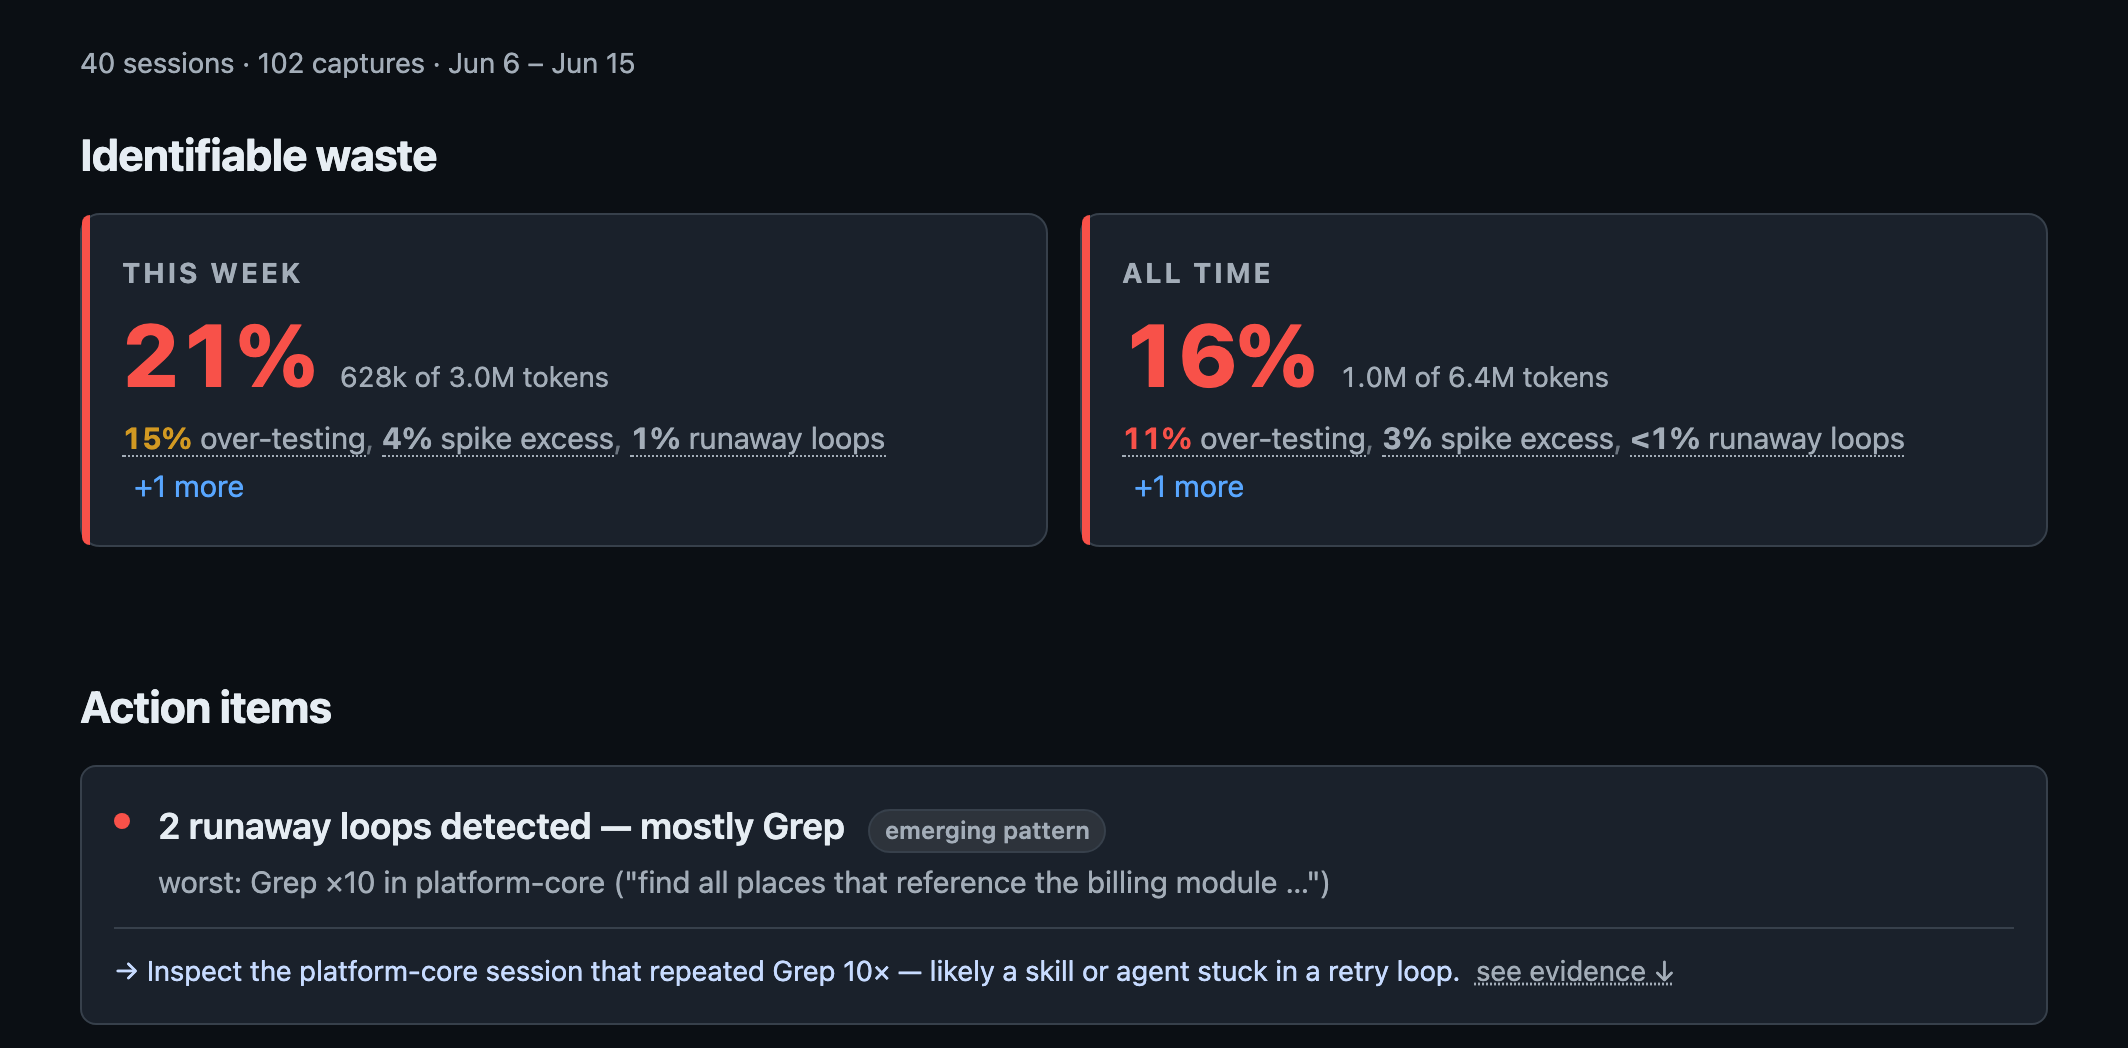
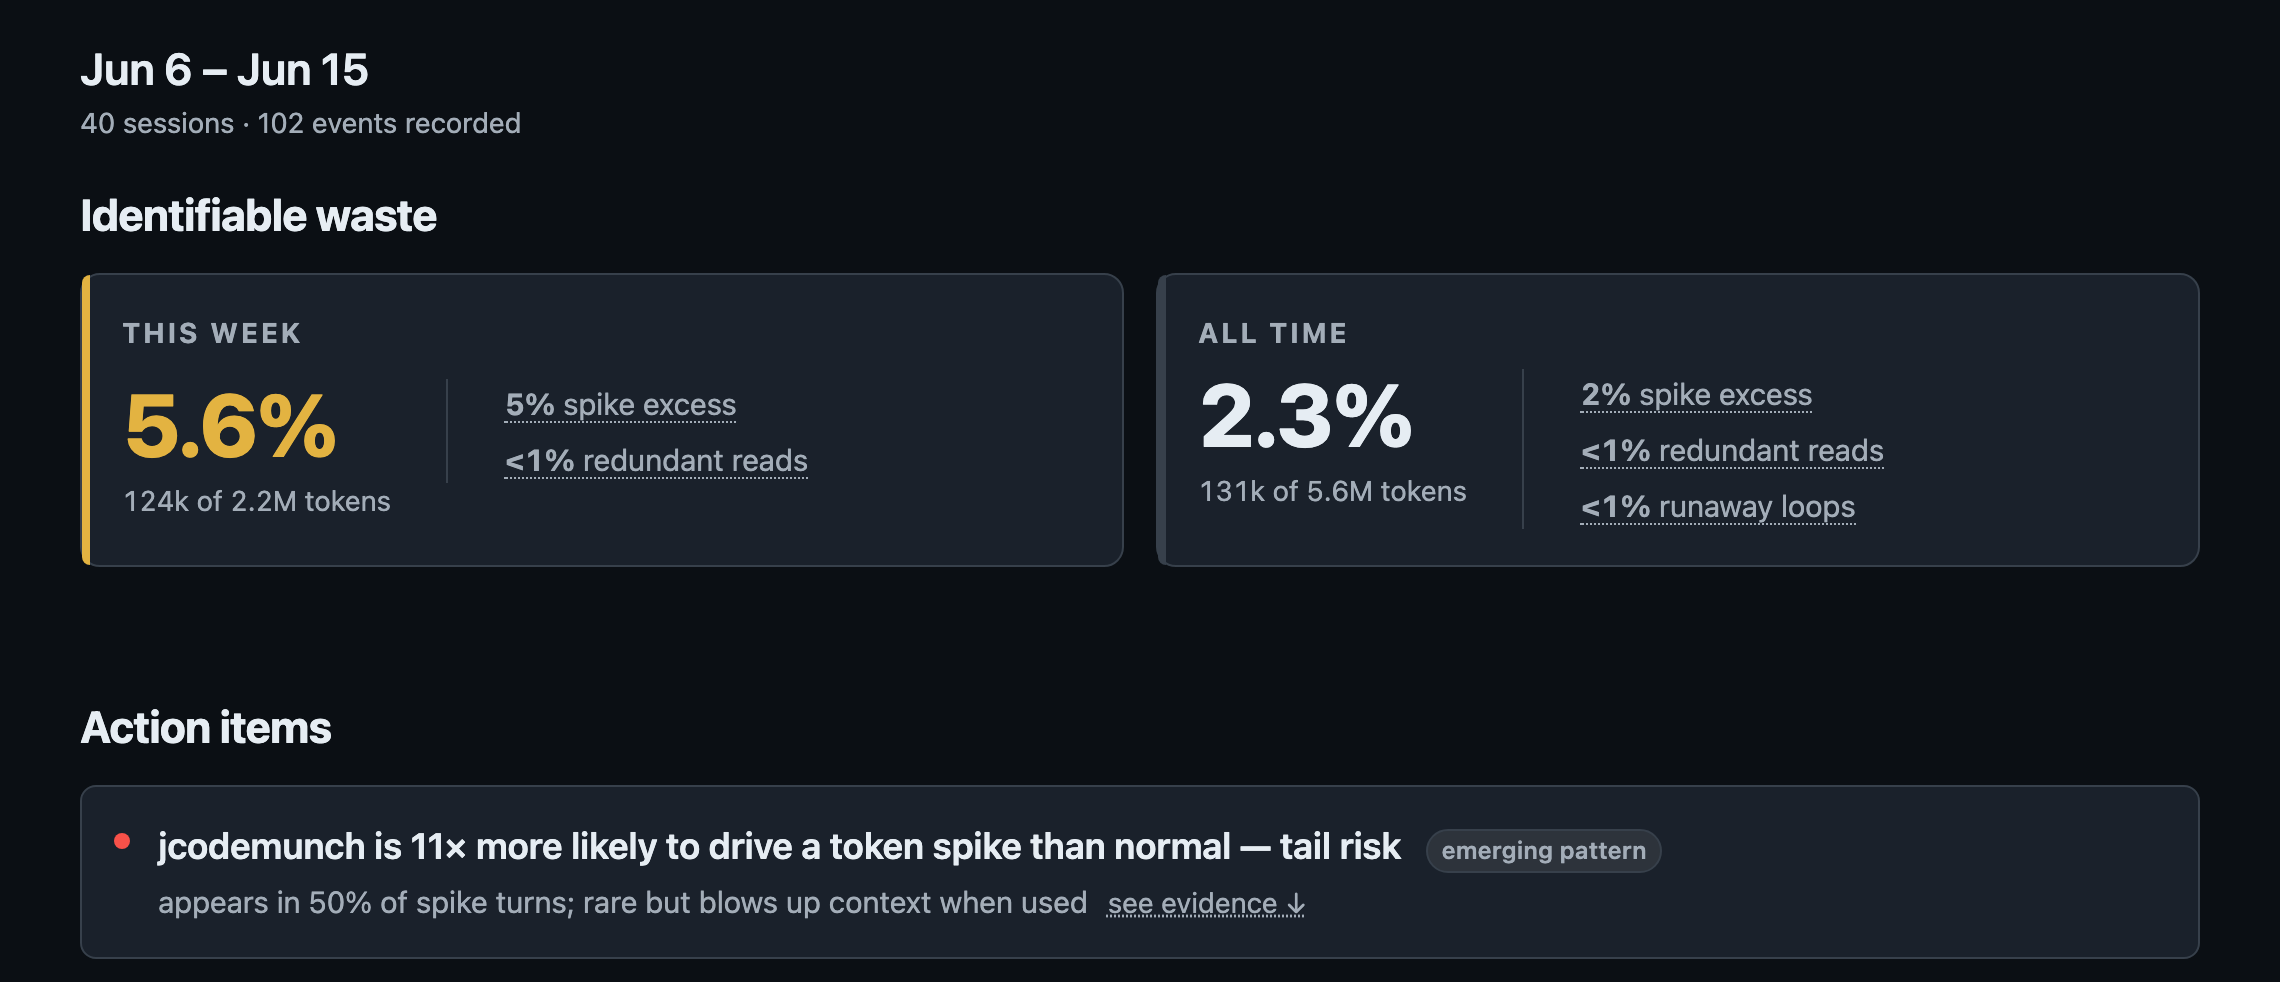
docs: drop the retired model-metrics panel and retake the Tokens README image
- Remove the guide section, troubleshooting row, README row, and light/dark
  images for the model token panel the page no longer renders.
- docs-screenshots --pages now limits capture mode too (it only filtered
  --survey), so one page's image can be retaken without the Plans and Runtime
  shots; retake docs/images/tokens.png with the new header and waste cards.
- Guide image test expects the four remaining screenshots.

diff --git a/docs/user/guides/telemetry.md b/docs/user/guides/telemetry.md
@@ -85,28 +85,6 @@ unavailable; a zero baseline does not produce an infinite percentage. The cards 
 Conditions overlap: a session may belong to a model, repository, and several package or skill
 comparisons. Do not add the cards together as if each represented different sessions.
 
-## Read relative model token metrics
-
-The compact **Model token usage per session** panel appears under **Investigate** when models
-have enough eligible sessions.
-Use it to choose sessions to inspect. Different task mixes mean it cannot establish which model
-is more efficient. Missing usage is highlighted as partial or unavailable.
-
-![Model metrics showing average tokens per session, the input/output ratio, partial token coverage, and approximate model attribution.](../../images/tokens/model-metrics-light.png)
-
-The example shows **9 valid / 12 eligible sessions** for Model A. Its average uses those nine
-valid observations; it does not assume the other three used zero tokens. Coverage is:
-
-| State | Meaning |
-| --- | --- |
-| **Available** | Every eligible observation has valid token data. |
-| **Partial** | Some eligible observations lack valid token data. |
-| **Unavailable** | There is no valid token data for the metric. |
-
-These are cumulative **session** counters, not tokens per tool call. Model attribution is
-approximate when telemetry only records an observed model without proving which model produced
-each operation. A model needs at least three eligible sessions to appear in this panel.
-
 ## Use the event ledger
 
 The **What happened, in order** ledger lists observed problems and changes newest first, with event icons, readable
@@ -173,7 +151,6 @@ monitoring an improvement or inspecting a possible regression.
 | No clear difference | No comparison crosses the display band with sufficient evidence. Focus on stronger signals. |
 | Comparison group missing | Collect sessions with and without that condition; unresolved context stays excluded. |
 | Partial or unavailable token coverage | Read valid/eligible counts before interpreting averages. Missing usage is not zero usage. |
-| Model missing from the metrics panel | It may have fewer than three eligible sessions or unresolved model attribution. |
 | Change still collecting | Continue collecting comparable sessions before and after the effective boundary. |
 
 For structured condition evidence in the terminal:

diff --git a/docs/images/tokens/README.md b/docs/images/tokens/README.md
@@ -8,7 +8,6 @@ Dates use UTC and formatting uses `en-US`.
 |---|---|
 | `conditions-{light,dark}.png` | Conditions compare observed problem rates with known presence versus known absence. |
 | `comparison-detail-{light,dark}.png` | The example has 3 affected of 12 sessions with the condition, versus 9 of 12 without. Two unknown sessions affect coverage only. |
-| `model-metrics-{light,dark}.png` | Session token metrics show valid/eligible coverage and approximate model attribution. |
 | `event-ledger-{light,dark}.png` | The event ledger places observed problems and recorded changes in time. |
 | `recorded-change-{light,dark}.png` | Change comparisons expose before/after counts and excluded boundary observations. |
 | `mark-change-{light,dark}.png` | Record a response now or an earlier suspected change, with repository scope and watching kinds. |
